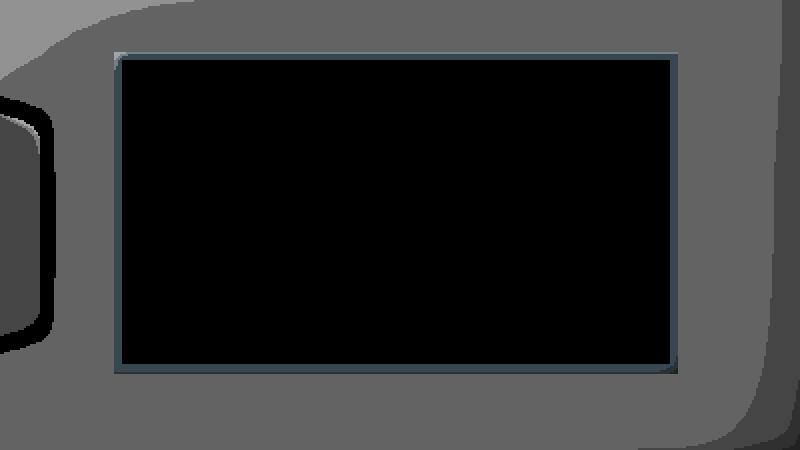
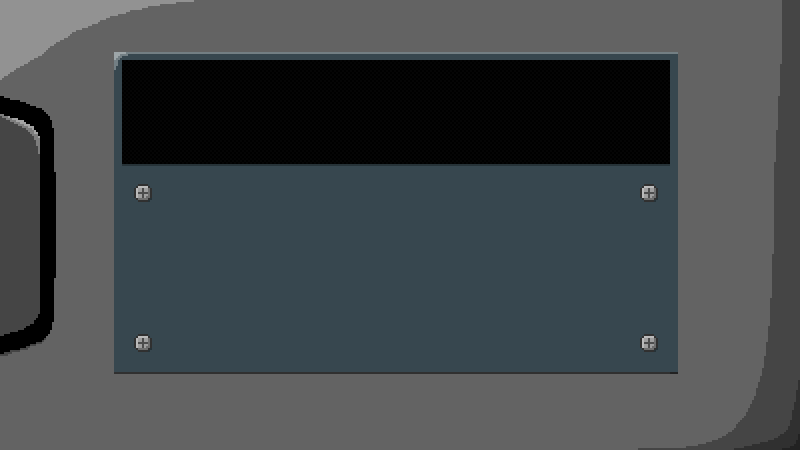
Atualiza: tela_cofre.js

diff --git a/cliente/js/tela_cofre.js b/cliente/js/tela_cofre.js
@@ -7,6 +7,11 @@ export default class tela_cofre extends Phaser.Scene {
   preload () {
     this.load.image('seta_down', '../assets/imagens/seta_down.png')
     this.load.image('background', '../assets/imagens/tela_cofre.png')
+    this.load.image('botao', '../assets/imagens/botao_cofre.png')
+    this.load.spritesheet('alfabeto', '../assets/imagens/alfabeto_menor_64.png', {
+      frameWidth: 96,
+      frameHeight: 96
+    })
   }
 
   
@@ -18,6 +23,91 @@ export default class tela_cofre extends Phaser.Scene {
         this.game.scene.stop('tela_cofre')
         this.game.scene.start('sala_m1')
       })
+
+    this.alfabeto = [
+      {
+        numero: '1',
+        x: 171,
+        y: 110
+      },
+
+      {
+        numero: '2',
+        x: 246,
+        y: 110
+      },
+      {
+        numero: '3',
+        x: 321,
+        y: 110
+      },
+      {
+        numero: '4',
+        x: 396,
+        y: 110
+      },
+      {
+        numero: '5',
+        x: 471,
+        y: 110
+      },
+      {
+        numero: '6',
+        x: 546,
+        y: 110
+      },
+      {
+        numero: '7',
+        x: 621,
+        y: 110
+      }
+    ]
+
+    this.alfabeto.forEach((item) => {
+      item.objeto = this.add.sprite(item.x, item.y, 'alfabeto')
+    })
+
+    this.botoes = [
+      {
+        numero: '1',
+        x: 171,
+        y: 250
+      },
+
+      {
+        numero: '2',
+        x: 246,
+        y: 250
+      },
+      {
+        numero: '3',
+        x: 321,
+        y: 250
+      },
+      {
+        numero: '4',
+        x: 396,
+        y: 250
+      },
+      {
+        numero: '5',
+        x: 471,
+        y: 250
+      },
+      {
+        numero: '6',
+        x: 546,
+        y: 250
+      },
+      {
+        numero: '7',
+        x: 621,
+        y: 250
+      }
+    ]
+    this.botoes.forEach((item) => {
+      item.botao = this.add.image(item.x, item.y, 'botao')
+    })
   }
 
   update () { }
